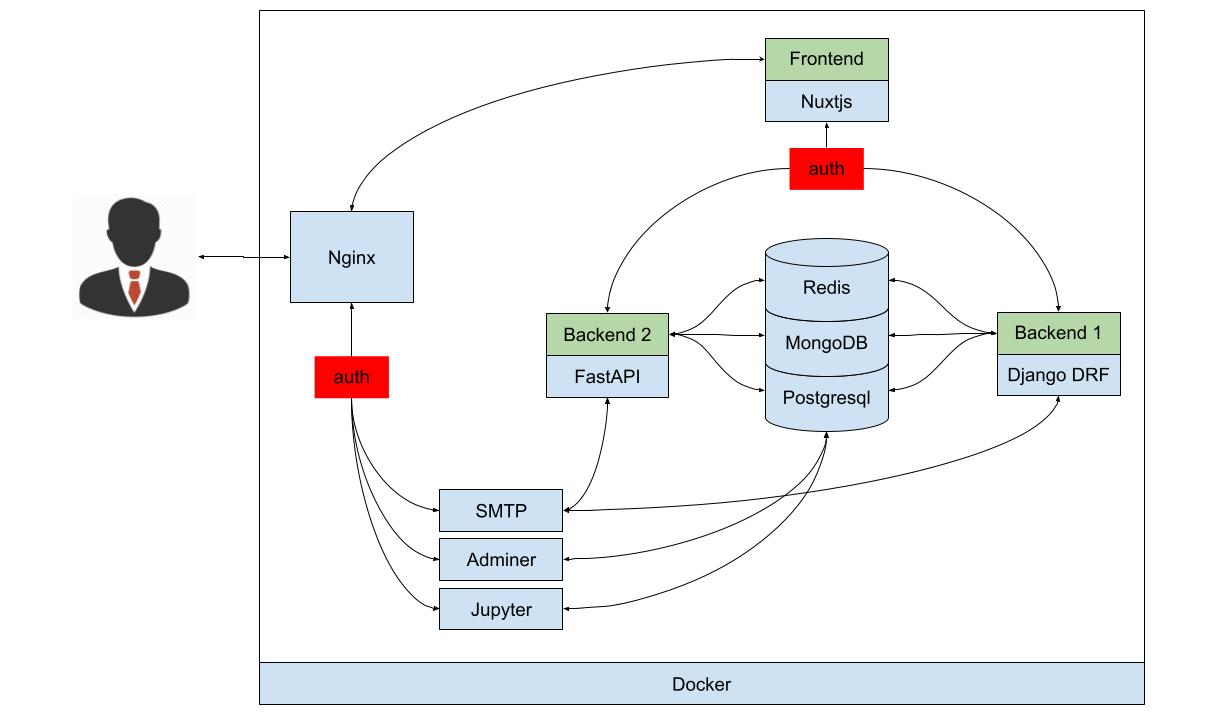
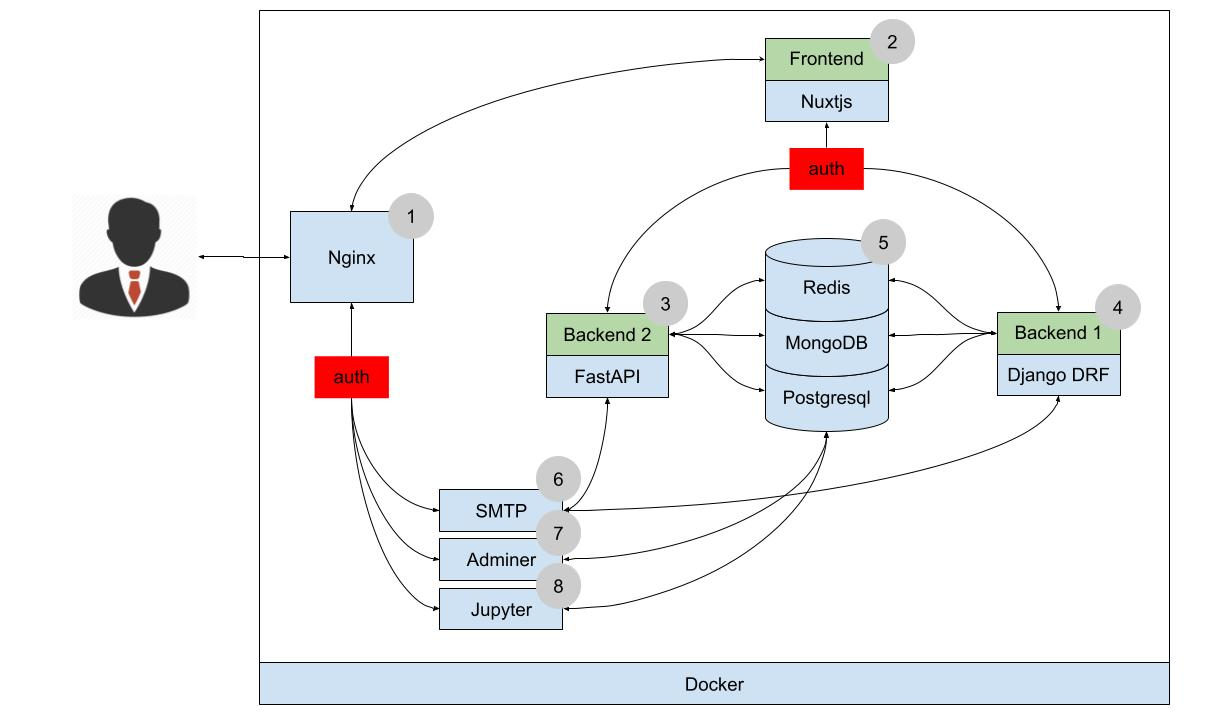
Изменил README.md

diff --git a/README.md b/README.md
@@ -60,20 +60,20 @@ uv run locust -f ./tests/external/locust.py --headless -u 100 -r 10 -t 1m --html
 > Замените порт `1338` на тот который вы указали при настройке проекта.
 > Ознакомьтесь с [дополнительной информацией](#настройки-docker)
 
-|  Сервис |auth| Url | Описание |
+|  Контейнер |auth| Url | Описание |
 | ------------- | - | ------------- | - |
-| frontend/nuxtjs | `нет` | [http://localhost:1338/](http://localhost:1338/)  | frontend на базе NuxtJs |
-| backend/fastapi/api  | `да` | [http://localhost:1338/fastapi/api/v1/](http://localhost:1338/fastapi/api/v1/)  | api на базе FastApi | 
-| backend/fastapi/api/swagger  | `да` | [http://localhost:1338/fastapi/docs/](http://localhost:1338/fastapi/docs/)  | Документация fastapi/api/swagger | 
-| backend/fastapi/api/redoc  | `да` | [http://localhost:1338/fastapi/redoc/](http://localhost:1338/fastapi/redoc/)  | Документация fastapi/api/redoc | 
-| backend/drf/api | `да` | [http://localhost:1338/drf/api/v1/](http://localhost:1338/drf/api/v1/)  | api на базе DRF |
-| backend/django/admin | `да` | [http://localhost:1338/drf/admin/](http://localhost:1338/drf/admin/)  | Django Admin Panel |
-| backend/sphinx  | `да` | [http://localhost:1338/drf/sphinx/](http://localhost:1338/drf/sphinx/)  | Документация к django моделям | 
-| django/api/swagger  | `да` | [http://localhost:1338/drf/swagger/](http://localhost:1338/drf/swagger/)  | Документация к django/api/swagger | 
-| django/api/redoc  | `да` | [http://localhost:1338/drf/redoc/](http://localhost:1338/drf/redoc/)  | Документация к django/api/redoc | 
-| db/adminer | `да` | [http://localhost:1338/adminer/](http://localhost:1338/adminer/)  | Web интерфейс для работы с DB |
+| frontend | `нет` | [http://localhost:1338/](http://localhost:1338/)  | frontend на базе NuxtJs |
+| fastapi  | `да` | [http://localhost:1338/fastapi/api/v1/](http://localhost:1338/fastapi/api/v1/)  | api на базе FastApi | 
+| fastapi  | `да` | [http://localhost:1338/fastapi/docs/](http://localhost:1338/fastapi/docs/)  | Документация fastapi/api/swagger | 
+| fastapi  | `да` | [http://localhost:1338/fastapi/redoc/](http://localhost:1338/fastapi/redoc/)  | Документация fastapi/api/redoc | 
+| drf | `да` | [http://localhost:1338/drf/api/v1/](http://localhost:1338/drf/api/v1/)  | api на базе DRF |
+| drf | `да` | [http://localhost:1338/drf/admin/](http://localhost:1338/drf/admin/)  | Django Admin Panel |
+| drf  | `да` | [http://localhost:1338/drf/sphinx/](http://localhost:1338/drf/sphinx/)  | Документация к django моделям | 
+| drf  | `да` | [http://localhost:1338/drf/swagger/](http://localhost:1338/drf/swagger/)  | Документация к django/api/swagger | 
+| drf  | `да` | [http://localhost:1338/drf/redoc/](http://localhost:1338/drf/redoc/)  | Документация к django/api/redoc | 
+| adminer | `да` | [http://localhost:1338/adminer/](http://localhost:1338/adminer/)  | Web интерфейс для работы с DB |
 | jupyter | `да` | [http://localhost:1338/jupyter/](http://localhost:1338/jupyter/)  | JupyterLab для DS |
-| smtp сервер | `да` | [http://localhost:1338/smtp4dev/](http://localhost:1338/smtp4dev/)  | smtp4dev |
+| smtp4dev | `да` | [http://localhost:1338/smtp4dev/](http://localhost:1338/smtp4dev/)  | smtp4dev |
 
 |   |  | |
 | ------------- | ------------- |  ------------- |
